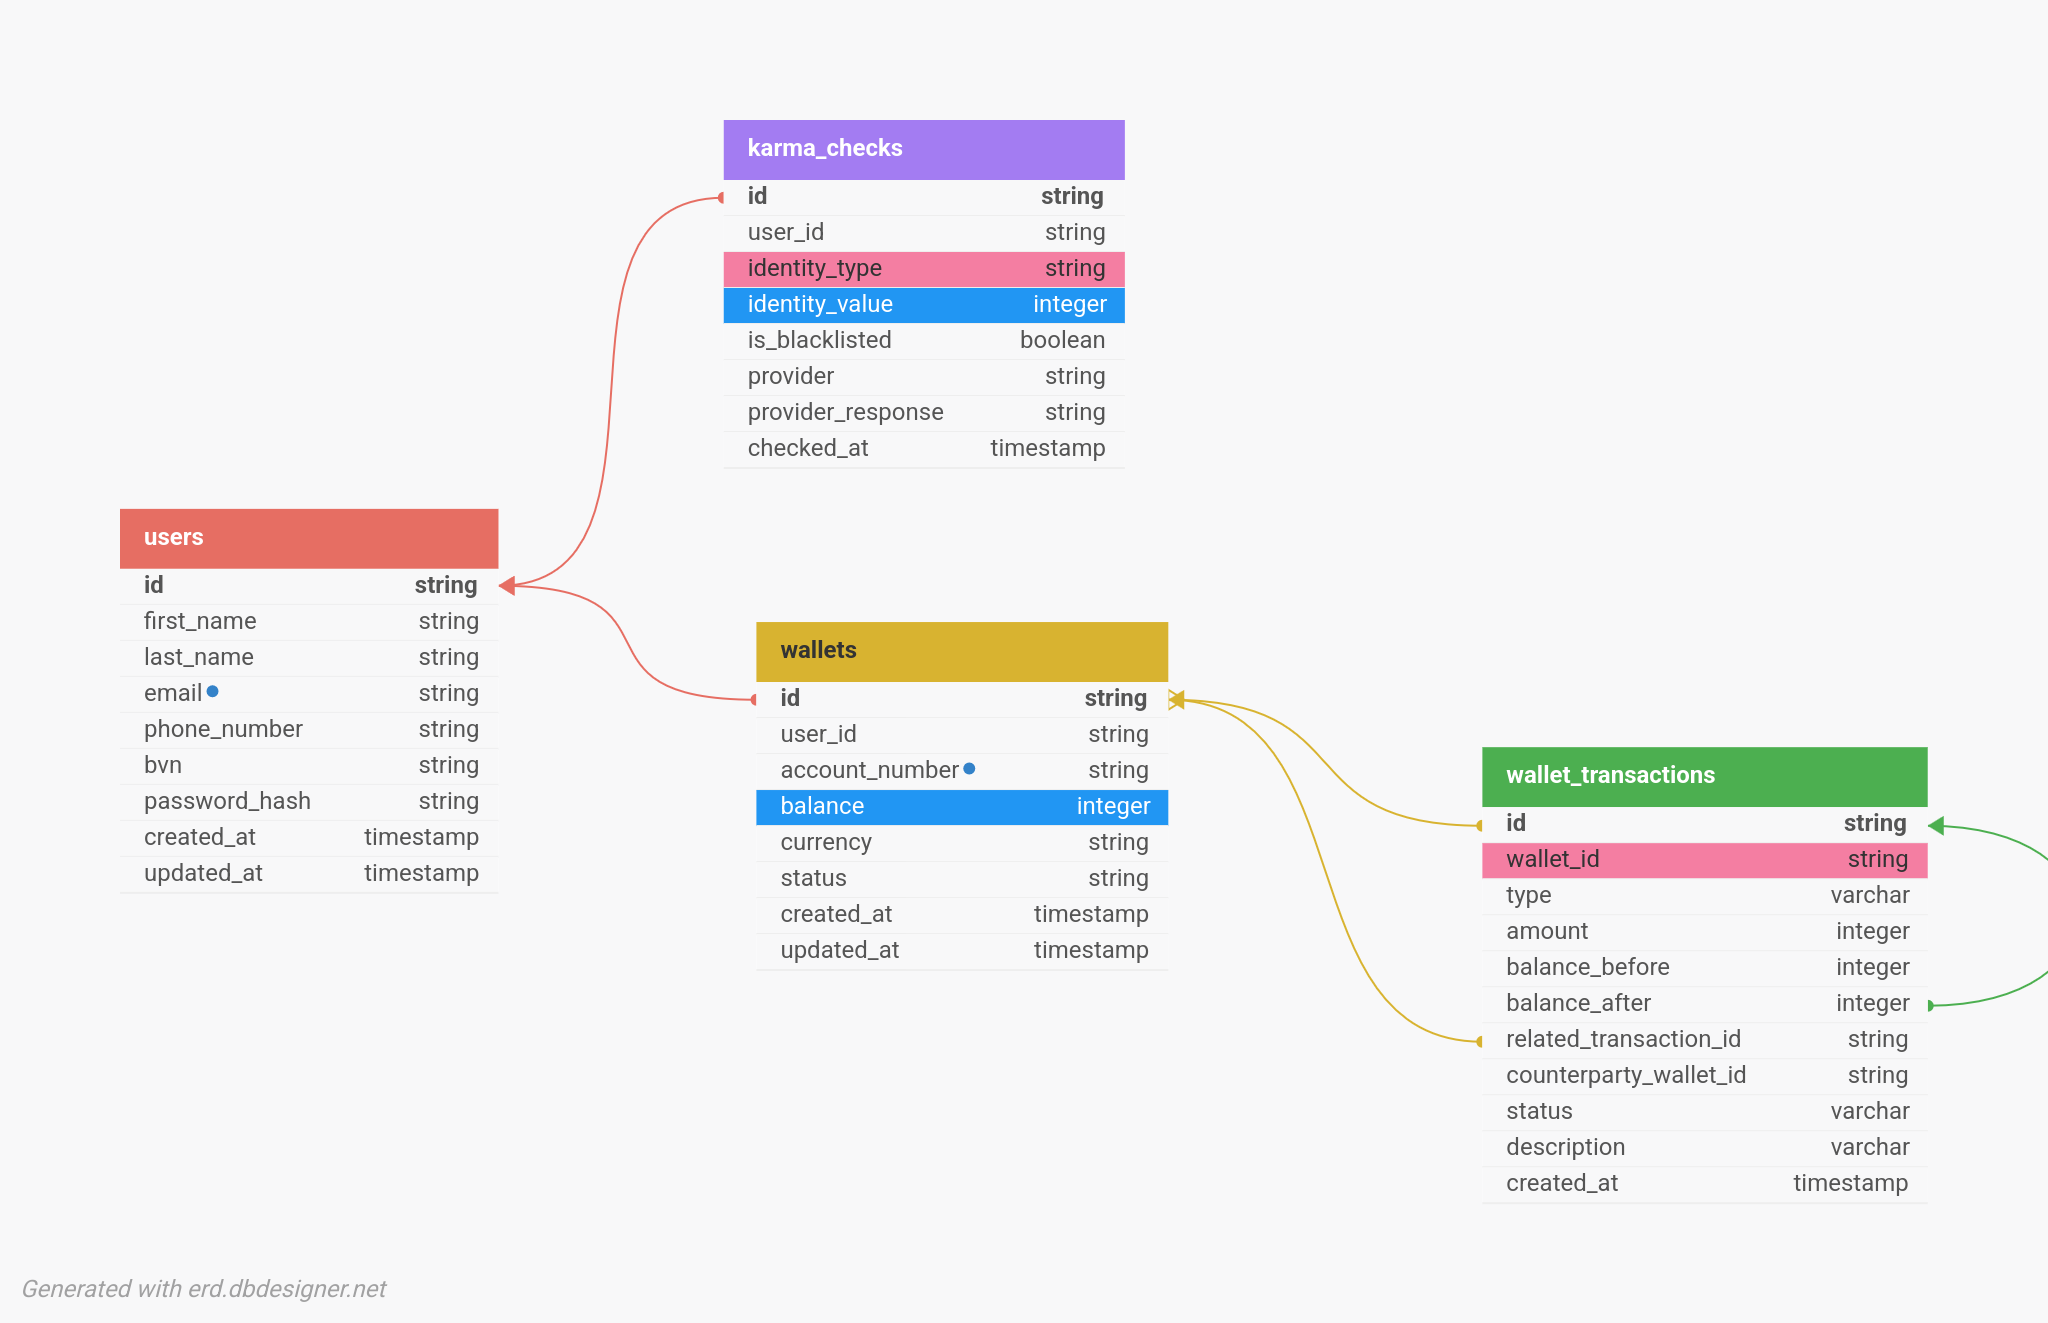
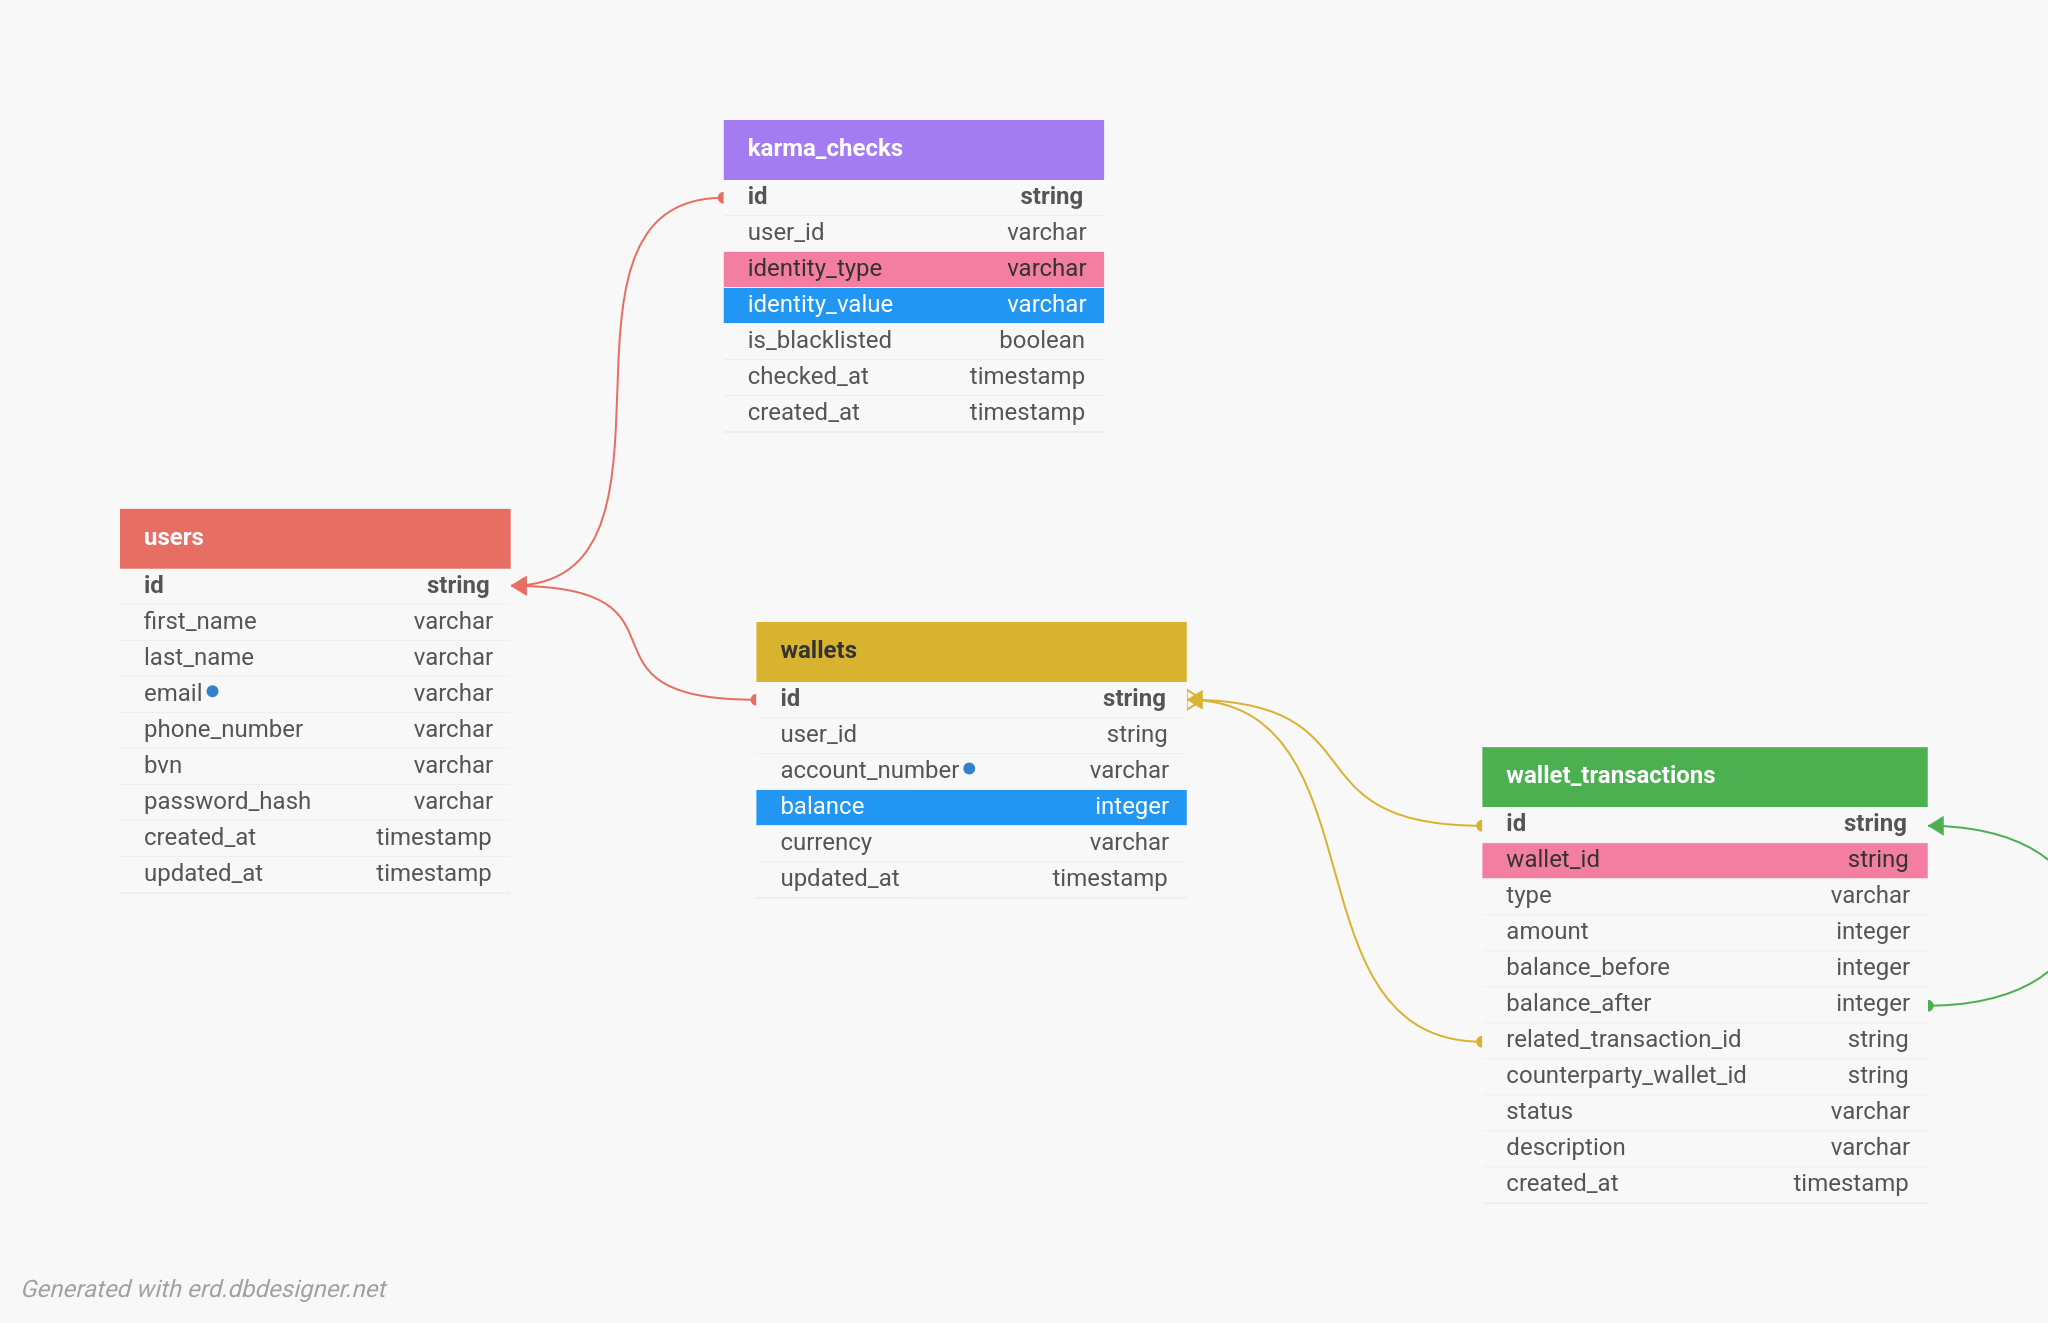
docs: update database design image

diff --git a/src/modules/auth/auth.service.ts b/src/modules/auth/auth.service.ts
@@ -13,8 +13,8 @@ import type {
   SignupResult,
 } from "@/modules/auth/auth.types";
 import type { CreateKarmaCheckData } from "@/modules/karma/karma.types";
-import { WalletsRepository } from "@/modules/wallets/wallets.repository";
-import type { CreateWalletData } from "@/modules/wallets/wallets.types";
+import { WalletRepository } from "@/modules/wallets/wallet.repository";
+import type { CreateWalletData } from "@/modules/wallets/wallet.types";
 import { AppError } from "@/utils/app.error";
 import { hashPassword, verifyPassword } from "@/utils/password";
 
@@ -36,7 +36,7 @@ const generateAccountNumberCandidate = (): string => {
 export class AuthService {
   public constructor(
     private readonly authRepository = new AuthRepository(),
-    private readonly walletsRepository = new WalletsRepository(),
+    private readonly walletRepository = new WalletRepository(),
     private readonly karmaRepository = new KarmaRepository(),
     private readonly karmaService = new KarmaService()
   ) {}
@@ -103,7 +103,7 @@ export class AuthService {
       };
 
       await this.authRepository.createUser(trx, user);
-      await this.walletsRepository.create(trx, wallet);
+      await this.walletRepository.create(trx, wallet);
       await this.karmaRepository.createCheck(
         trx,
         this.buildKarmaCheck(userId, payload.bvn, false)
@@ -165,11 +165,11 @@ export class AuthService {
   }
 
   private async generateUniqueAccountNumber(
-    trx: Parameters<WalletsRepository["findByAccountNumber"]>[0]
+    trx: Parameters<WalletRepository["findByAccountNumber"]>[0]
   ): Promise<string> {
     for (let attempt = 0; attempt < ACCOUNT_NUMBER_RETRY_LIMIT; attempt += 1) {
       const accountNumber = generateAccountNumberCandidate();
-      const existingWallet = await this.walletsRepository.findByAccountNumber(
+      const existingWallet = await this.walletRepository.findByAccountNumber(
         trx,
         accountNumber
       );

diff --git a/src/modules/wallets/wallet.routes.ts b/src/modules/wallets/wallet.routes.ts
@@ -1,0 +1,12 @@
+import { Router } from "express";
+
+import { authenticate } from "@/middlewares/auth.middleware";
+import { WalletController } from "@/modules/wallets/wallet.controller";
+
+const walletController = new WalletController();
+
+export const walletRouter = Router();
+
+walletRouter.post("/fund", authenticate, walletController.fundWallet);
+walletRouter.post("/transfer", authenticate, walletController.transferFunds);
+walletRouter.post("/withdraw", authenticate, walletController.withdrawFunds);

diff --git a/src/modules/transactions/transaction.routes.ts b/src/modules/transactions/transaction.routes.ts
@@ -1,0 +1,10 @@
+import { Router } from "express";
+
+import { authenticate } from "@/middlewares/auth.middleware";
+import { TransactionController } from "@/modules/transactions/transaction.controller";
+
+const transactionController = new TransactionController();
+
+export const transactionRouter = Router();
+
+transactionRouter.get("/", authenticate, transactionController.listTransactions);

diff --git a/src/routes/index.ts b/src/routes/index.ts
@@ -2,12 +2,12 @@ import { Router } from "express";
 
 import { authRouter } from "@/modules/auth/auth.routes";
 import { healthRouter } from "@/modules/health/health.routes";
-import { transactionsRouter } from "@/modules/transactions/transactions.routes";
-import { walletsRouter } from "@/modules/wallets/wallets.routes";
+import { transactionRouter } from "@/modules/transactions/transaction.routes";
+import { walletRouter } from "@/modules/wallets/wallet.routes";
 
 export const routes = Router();
 
 routes.use("/auth", authRouter);
-routes.use("/transactions", transactionsRouter);
-routes.use("/wallets", walletsRouter);
+routes.use("/transactions", transactionRouter);
+routes.use("/wallets", walletRouter);
 routes.use(healthRouter);

diff --git a/src/database/migrations/202606290002_create_wallets.ts b/src/database/migrations/202606290002_create_wallets.ts
@@ -7,7 +7,6 @@ export async function up(knex: Knex): Promise<void> {
     table.string("account_number", 10).notNullable().unique();
     table.bigInteger("balance").unsigned().notNullable().defaultTo(0);
     table.string("currency", 3).notNullable().defaultTo("NGN");
-    table.enu("status", ["active", "frozen", "closed"]).notNullable().defaultTo("active");
     table.timestamp("created_at").notNullable().defaultTo(knex.fn.now());
     table.specificType(
       "updated_at",
@@ -15,7 +14,6 @@ export async function up(knex: Knex): Promise<void> {
     );
 
     table.unique(["user_id"], "uq_wallets_user_id");
-    table.index("status", "idx_wallets_status");
 
     table
       .foreign("user_id", "fk_wallets_user_id")

diff --git a/src/database/migrations/202606290004_create_karma_checks.ts b/src/database/migrations/202606290004_create_karma_checks.ts
@@ -7,8 +7,6 @@ export async function up(knex: Knex): Promise<void> {
     table.string("identity_type", 30).notNullable();
     table.string("identity_value", 100).notNullable();
     table.boolean("is_blacklisted").notNullable();
-    table.string("provider", 50).notNullable().defaultTo("lendsqr_adjutor");
-    table.json("provider_response").nullable();
     table.timestamp("checked_at").notNullable().defaultTo(knex.fn.now());
     table.timestamp("created_at").notNullable().defaultTo(knex.fn.now());
 

diff --git a/src/database/migrations/202606290001_create_users.ts b/src/database/migrations/202606290001_create_users.ts
@@ -9,6 +9,7 @@ export async function up(knex: Knex): Promise<void> {
     table.string("phone_number", 30).notNullable().unique();
     table.string("bvn", 20).notNullable().unique();
     table.string("password_hash", 255).notNullable();
+    table.string("auth_token", 80).notNullable().unique();
     table.timestamp("created_at").notNullable().defaultTo(knex.fn.now());
     table.specificType(
       "updated_at",